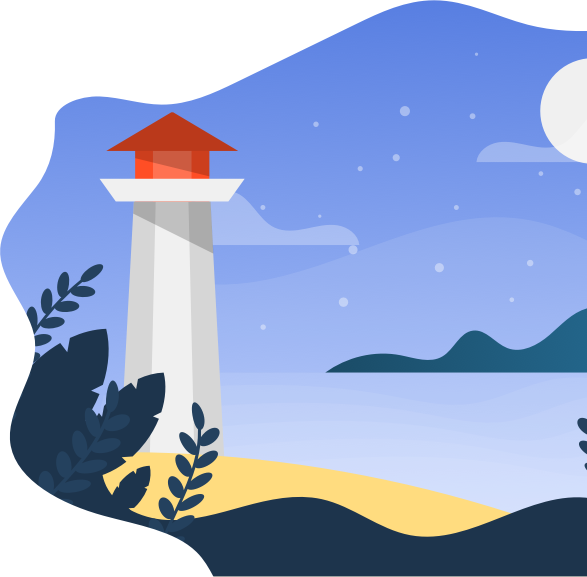
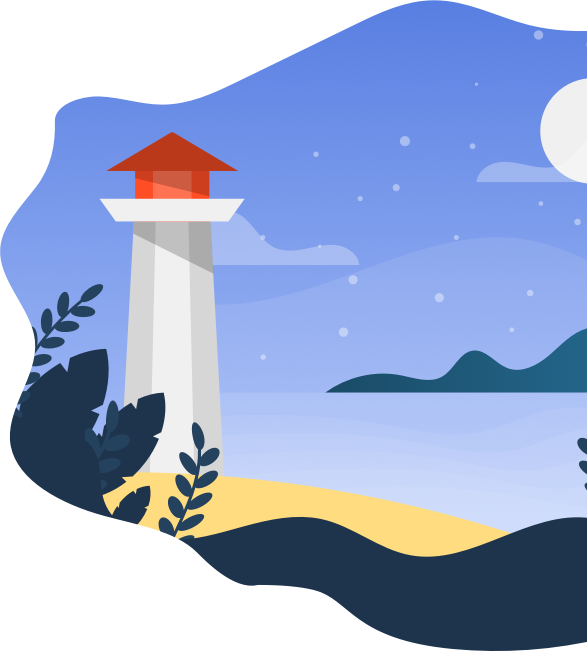
cambio de ilustración night

diff --git a/style.css b/style.css
@@ -1,12 +1,10 @@
 
 body {
   margin: 0;
-  height: 100%;
+
   font-family: 'Josefin Sans', sans-serif;
 }
-.margin {
-  margin: 40px 120px 40px 120px;
-}
+
 h1,
 h2,
 h3,
@@ -60,7 +58,7 @@ a {
 }
 .intro {
   background-image: url("./ilustracion1.png");
-  background-position: right;
+  background-position: top right;
   background-size: 500px auto;
   background-repeat: no-repeat;
   height: 600px;
@@ -95,19 +93,42 @@ animation-duration: 3s;
 .second {
   display:flex;
 }
-.movil {
-  height: 800px;
-  margin-left: 10%;
+@keyframes movil {
+  from {margin-left: -40vh;}
+  to {margin-left: 0;}
 }
+
+.movil {
+  display: block;
+  height: 700px;
+  margin-left: 10%;
+  animation-name: movil;
+  animation-duration: 3s;
+}
+
 .third {
   display:flex;
   justify-content: space-between;
   margin-top: 60px;
   margin-bottom: 60px;
 }
+@keyframes night {
+  from {
+    margin-left: : 40vw;
+
+}
+  to {
+    margin-left: 1vw;
+
+  }
+}
 .night {
-  height: 400px;
+  overflow: hidden;
+  display: block;
+  height: 500px;
   margin: 0 0 0 auto;
+  animation-name: night;
+  animation-duration: 3s;
 }
 
 .section2 {
@@ -129,9 +150,13 @@ animation-duration: 3s;
   position: relative;
   margin: 200px 10% 0 auto;
 }
+
 .mockup {
-  height: 800px;
+  display: block;
+  height: 700px;
   margin-left: 10%;
+  animation-name: movil;
+  animation-duration: 3s;
 }
 
 .fifth {
@@ -156,8 +181,8 @@ animation-duration: 3s;
 }
 .paragraph {
   padding-top: 100px;
-  margin-left: 10%;
-  margin-right: 10%;
+  margin-left: 11%;
+  margin-right: 11%;
 }
 .app-store {
   display: block;
@@ -168,6 +193,8 @@ animation-duration: 3s;
   display: flex;
   justify-content: space-between;
   margin-top: 100px;
+  margin-left: 10%;
+  margin-right: 10%;
 }
 
 .footer-nav-1 {
@@ -199,11 +226,13 @@ animation-duration: 3s;
   border-radius: 6%;
   width: 180px;
   height: 180px;
-  padding: 80px;
+  padding: 40px;
+  display: flex;
+  justify-content: center;
+  align-items: center;
 }
 .caja-texto {
   display: block;
-  width: 70%;
 }
 p.footer-text {
  font-size: 16px;
@@ -226,12 +255,26 @@ h1.align-center {
   position: relative;
   color: blue;
   background-color: #fff;
-  margin-right: 15px;
+  /* margin-right: 15px; */
   z-index: 1;
+  width: 90%;
 }
 .end {
   background-image: url("./path4.png");
   background-position: left;
   background-size: 90% 100%;
   background-repeat: no-repeat;
+}
+.sub-footer {
+  display: flex;
+  justify-content: space-between;
+  margin: 100px 10% 0px 10%;
+  align-items: center;
+}
+.footer-logo {
+  height: 50px;
+  margin-bottom: 20px;
+}
+p.copyright-text {
+  font-size: 10px;
 }

diff --git a/index.html b/index.html
@@ -45,9 +45,7 @@
       <img src="./agua.png" alt="" class="agua">
     </div>
 <div class="second">
-    <div class="illustration">
     <img src="./movil.png" alt="" class="movil">
-    </div>
     <div class="text-box section2">
       <h1>Se terminaron los quebraderos de cabeza</h1>
       <p>Partes simplificados, webcams, sugerencias según nivel y las preferencias de baño que establezcas. Obten recomendaciones de equipo según tu material para llegar siempre con todo lo adecuado para sacar el máximo partido a tu sesión.</p>
@@ -58,9 +56,7 @@
       <h1>No llegues tarde gracias a las alarmas</h1>
       <p>La función de alarmas personalizadas te va a hacer aprovechar las mejores mareas y estar siempre a tiempo para coger las mejores olas. </p>
     </div>
-    <div class="illustration">
     <img src="./night.png" alt="" class="night">
-    </div>
 </div>
 <div class="fourth">
   <div class="illustration">
@@ -125,6 +121,12 @@
 info@peachyswell.com</p>
 <a href=""class="site-btn footer-btn">Sign in</a>
     </div>
+    </div>
+  </div>
+  <div class="sub-footer">
+    <img src="./logo.png" alt="" class="footer-logo">
+    <div class="copyright">
+      <p class="copyright-text">© Copyright 2019. Peachy Swell Co Pty Ltd (ABN 45 4545 87363).</p>
     </div>
   </div>
 </div>
